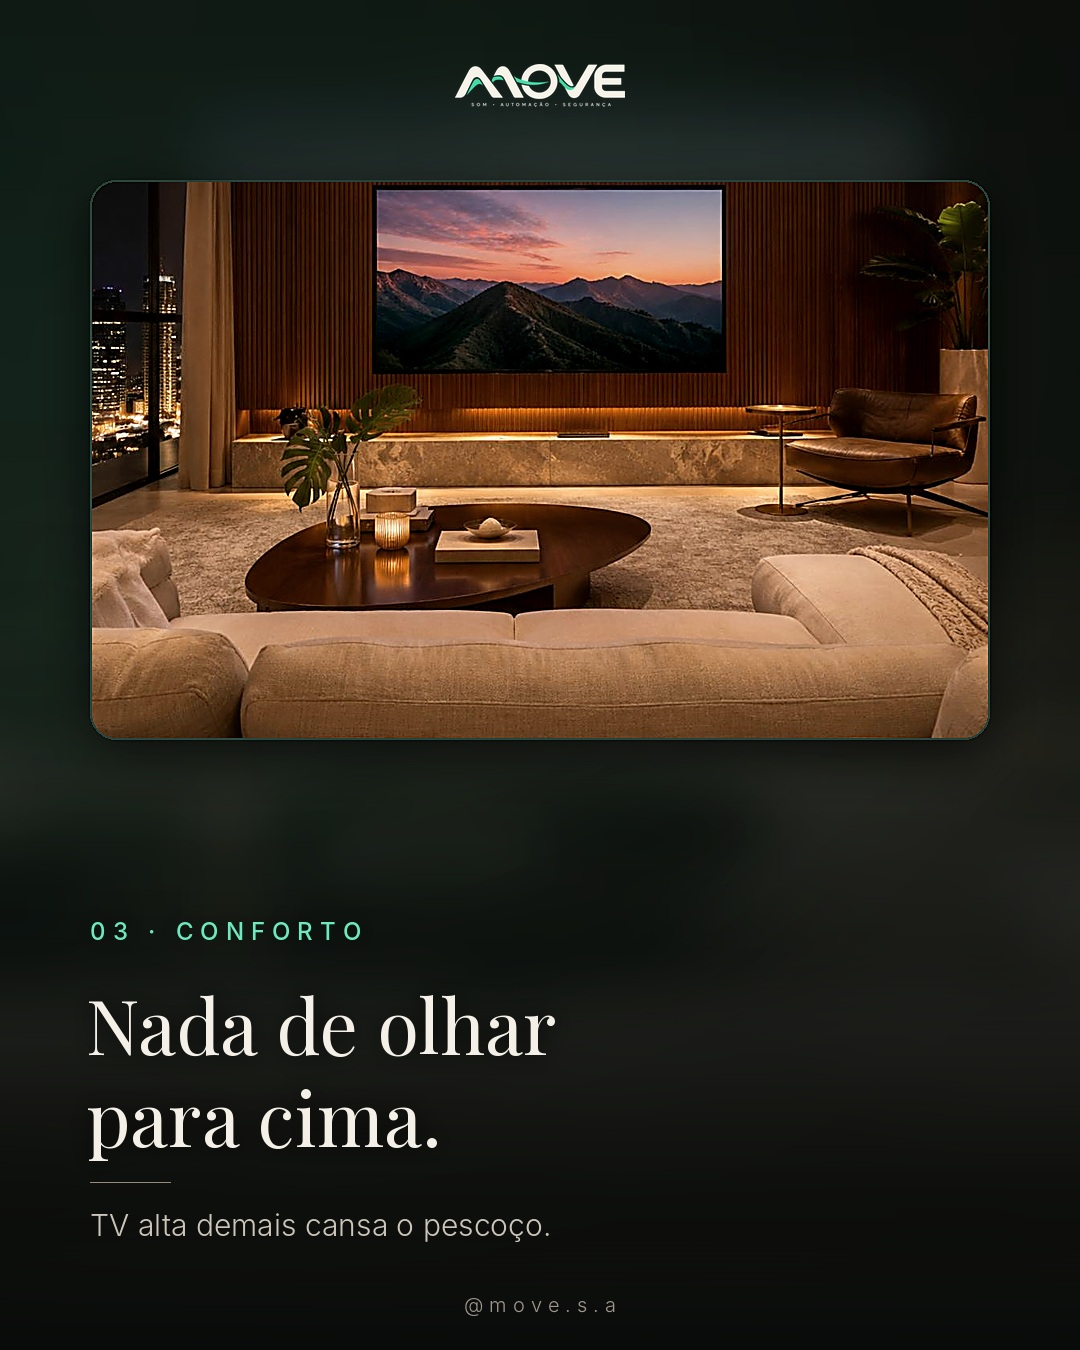
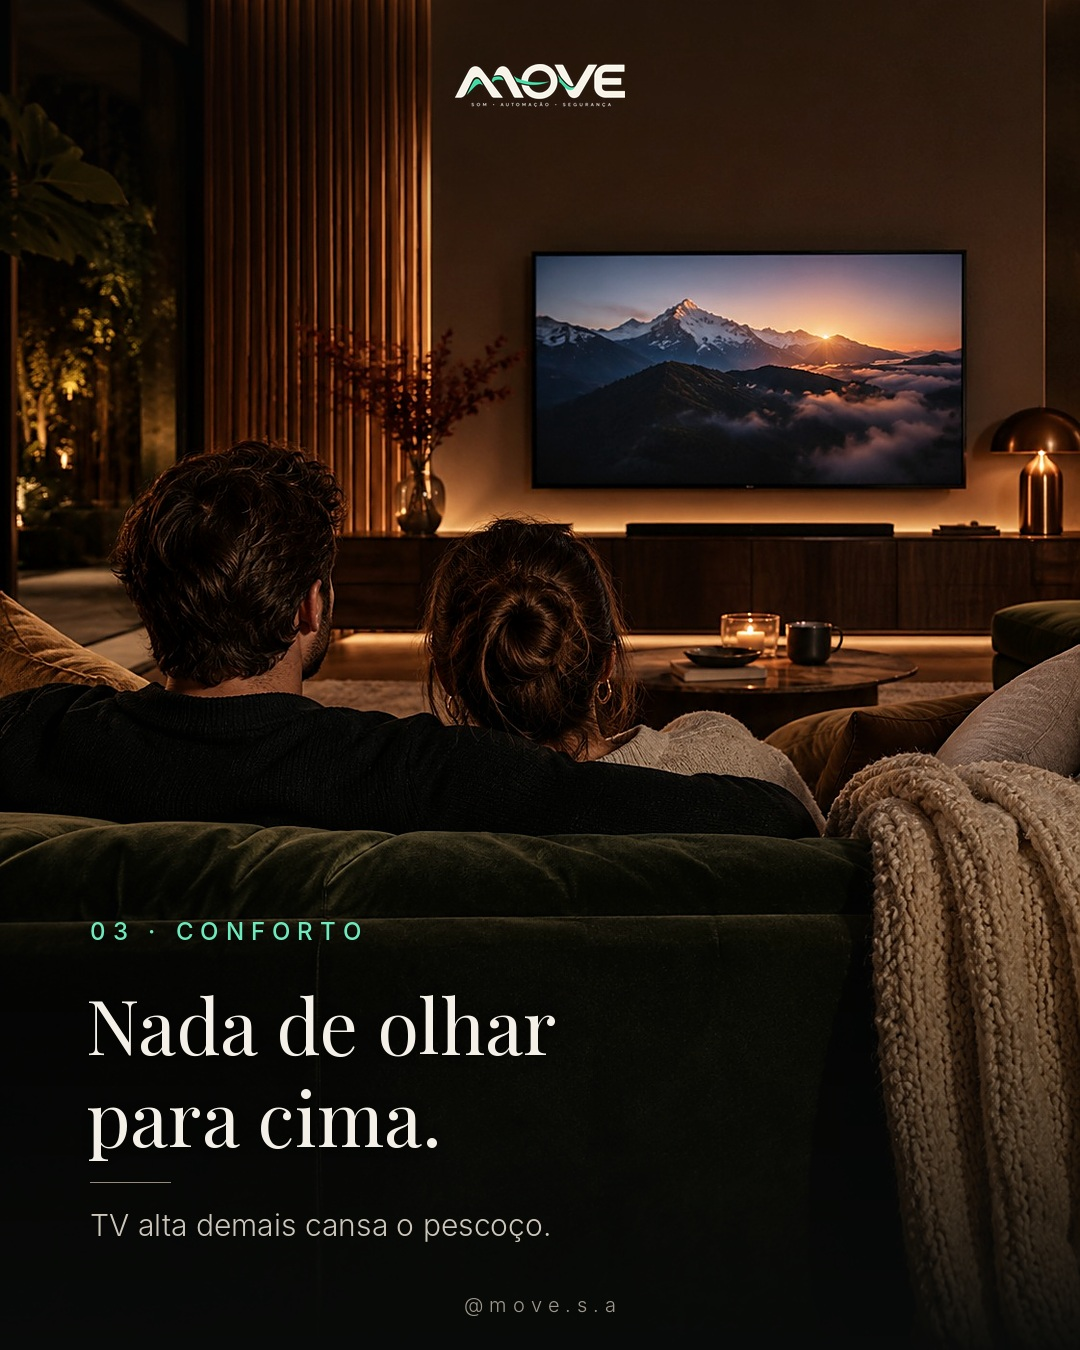
MOVE: 18/11 sem imagens repetidas — carrossel TV e stories com imagens novas do ChatGPT
Claude-Session: https://claude.ai/code/session_01MtAUW1y78SJVGQskDmAcq7

diff --git a/automacao/planob/troca_imagens_1118.py b/automacao/planob/troca_imagens_1118.py
@@ -1,0 +1,26 @@
+"""18/11: troca de imagens repetidas/reaproveitadas (pedido do João 17/11). Mantém textos, nomes de arquivo e plano.json.
+Novas imagens do ChatGPT em automacao/planob/img_1118/. Capa (ia_living_tv_1118) e feed (home office) já eram inéditos."""
+import sys, os, json
+sys.path.insert(0, os.path.dirname(os.path.abspath(__file__)))
+import importlib.util
+H = os.path.dirname(os.path.abspath(__file__))
+sp = importlib.util.spec_from_file_location('d', H + '/dias_14a16.py'); D = importlib.util.module_from_spec(sp); sp.loader.exec_module(D)
+S = D.S; I = 'automacao/planob/img_1118/'; OUT = f'{D.REPO}/fila/2026-11-18'
+TV = 'automacao/planob/ia_living_tv_1118.jpg'
+J = [  # (arquivo, tipo, S)
+ ('story_09h_1.jpg', 'story', S(I + 'st09_homeoffice.jpg', 'PERGUNTA DO DIA', ['Você trabalha com', 'música ou silêncio?'], 'Responde no direct: música · silêncio')),
+ ('story_15h_1.jpg', 'story', S(I + 'st15_forro_caixa.jpg', 'DETALHE · SOM EMBUTIDO', ['Discreta no forro,', 'presente no som.'], 'Caixa de embutir com tela pintável.')),
+ ('story_21h_1.jpg', 'story', S(I + 'st21_noite.jpg', 'QUARTA À NOITE', ['Luz baixa,', 'tela acesa.'], 'Cena Cinema em um toque. Ambiente conceito.')),
+ ('carrossel_2.jpg', 'feed', S(I + 'tv_altura.jpg', '01 · ALTURA', ['Centro da tela na', 'altura dos olhos.'], 'Sentado, em torno de 1 m a 1,10 m do piso.')),
+ ('carrossel_3.jpg', 'feed', S(I + 'tv_distancia_diptico.jpg', '02 · DISTÂNCIA', ['De 1 a 1,5 vez', 'a diagonal da tela.'], 'TV 4K de 65": algo entre 1,7 m e 2,5 m.', (0, 0, 1, 0.485), dk=True)),
+ ('carrossel_4.jpg', 'feed', S(I + 'tv_conforto.jpg', '03 · CONFORTO', ['Nada de olhar', 'para cima.'], 'TV alta demais cansa o pescoço.')),
+ ('carrossel_5.jpg', 'feed', S(I + 'tv_cortina.jpg', '04 · REFLEXO', ['Janela de frente', 'apaga a imagem.'], 'Cortina automatizada resolve com um toque.')),
+ ('carrossel_6.jpg', 'feed', S(I + 'tv_infra.jpg', '05 · INFRAESTRUTURA', ['Reforço, energia', 'e rede atrás da TV.'], 'Eletroduto até o rack, previsto antes da obra.')),
+]
+for fn, kind, s in J: D.render(s, kind, f'{OUT}/{fn}')
+p = f'{OUT}/plano.json'; j = json.load(open(p))
+for it in j['19h']:
+    if it['acao'] == 'create_carousel_post':
+        it['legenda'] = it['legenda'].replace('Imagens conceito (capa e slides 1 e 3).', 'Imagens conceito.')
+json.dump(j, open(p, 'w'), ensure_ascii=False, indent=1)
+print('ok 18/11')

diff --git a/automacao/historico.md b/automacao/historico.md
@@ -53,3 +53,4 @@
 | 2026-11-17 12h (12h08) | Reel MOVE Explica + share feed | SOM: amplificador desliga no volume alto → fio solto no borne (curto); desencapar 1 cm, torcer, apertar ou pino banana | reel_12h.mp4 | (conforme vídeo) | 18136632043776866 |
 | 2026-11-17 12h (12h08) | Story do Reel | SOM: bornes do amplificador (reel_12h.mp4) | — | — | 18112262887937809 |
 | 2026-11-17 (fila 17/11 15h) | Carrossel 6 + Story | Fio neutro no interruptor — refeito a pedido do João (imagens novas): capa/01/03/04 ChatGPT, 02/05 quadros reais da obra Mariscal (interruptor touch no mármore verde); substitui o carrossel de 15/11 excluído | ChatGPT + VID-20250918-WA0039.mp4 | — | (a publicar) |
+| 2026-11-17 (fila 18/11) | Troca de imagens | 18/11: carrossel TV (slides 1–5) e stories 09h/15h/21h com imagens NOVAS do ChatGPT (antes: TV repetida 3x, r_sala, voz, quadro do move-reel-01) — pedido do João | automacao/planob/img_1118 | — | (a publicar) |
